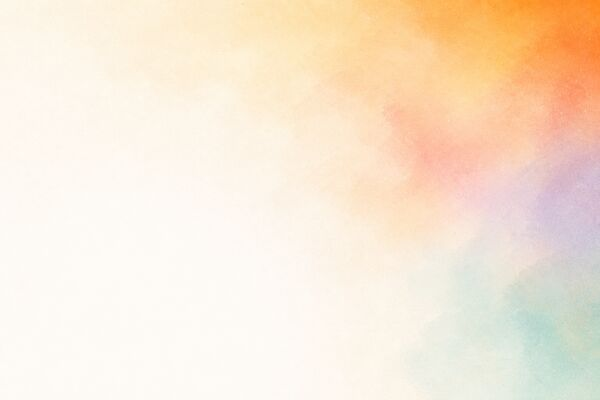
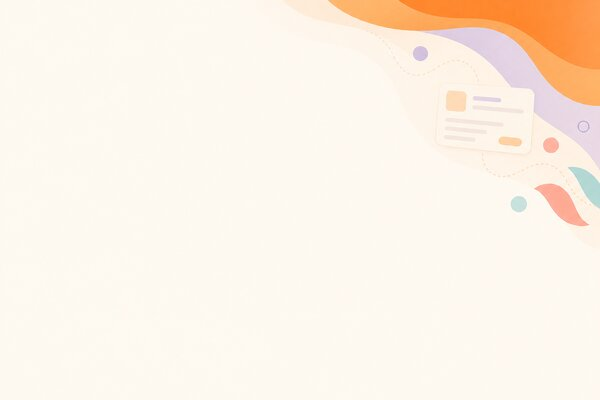
feat: hero-style illustrated background on job cards, masked top-right (light+dark)

diff --git a/src/components/job-card.tsx b/src/components/job-card.tsx
@@ -38,11 +38,11 @@ export const JobCard = memo(function JobCard({ job, idx = 0 }: { job: JobListIte
       />
       <span
         aria-hidden
-        className="pointer-events-none absolute inset-0 z-0 rounded-2xl bg-[url('/card-photo.jpg')] bg-cover bg-center bg-no-repeat opacity-[0.55] dark:opacity-[0.16]"
+        className="pointer-events-none absolute inset-0 z-0 rounded-2xl bg-[url('/card-photo.jpg')] bg-cover bg-center bg-no-repeat opacity-[0.9] [mask-image:radial-gradient(150%_150%_at_100%_0%,#000_0%,#000_30%,transparent_72%)] dark:opacity-[0.28] dark:[mask-image:radial-gradient(110%_110%_at_100%_0%,#000_0%,transparent_55%)]"
       />
       <span
         aria-hidden
-        className="pointer-events-none absolute inset-0 z-0 rounded-2xl bg-gradient-to-tl from-surface via-surface/85 to-surface/40 dark:from-surface dark:via-surface/90 dark:to-surface/65"
+        className="pointer-events-none absolute inset-0 z-0 rounded-2xl bg-gradient-to-tl from-surface/70 via-surface/20 to-transparent dark:from-surface/90 dark:via-surface/40 dark:to-transparent"
       />
       <span className="pointer-events-none absolute inset-y-0 left-0 z-10 w-1.5 rounded-l-2xl" style={{ background: "var(--cc)" }} />
       <div className="pointer-events-none relative z-10 flex flex-1 flex-col p-5 pl-6 sm:p-6 sm:pl-7">